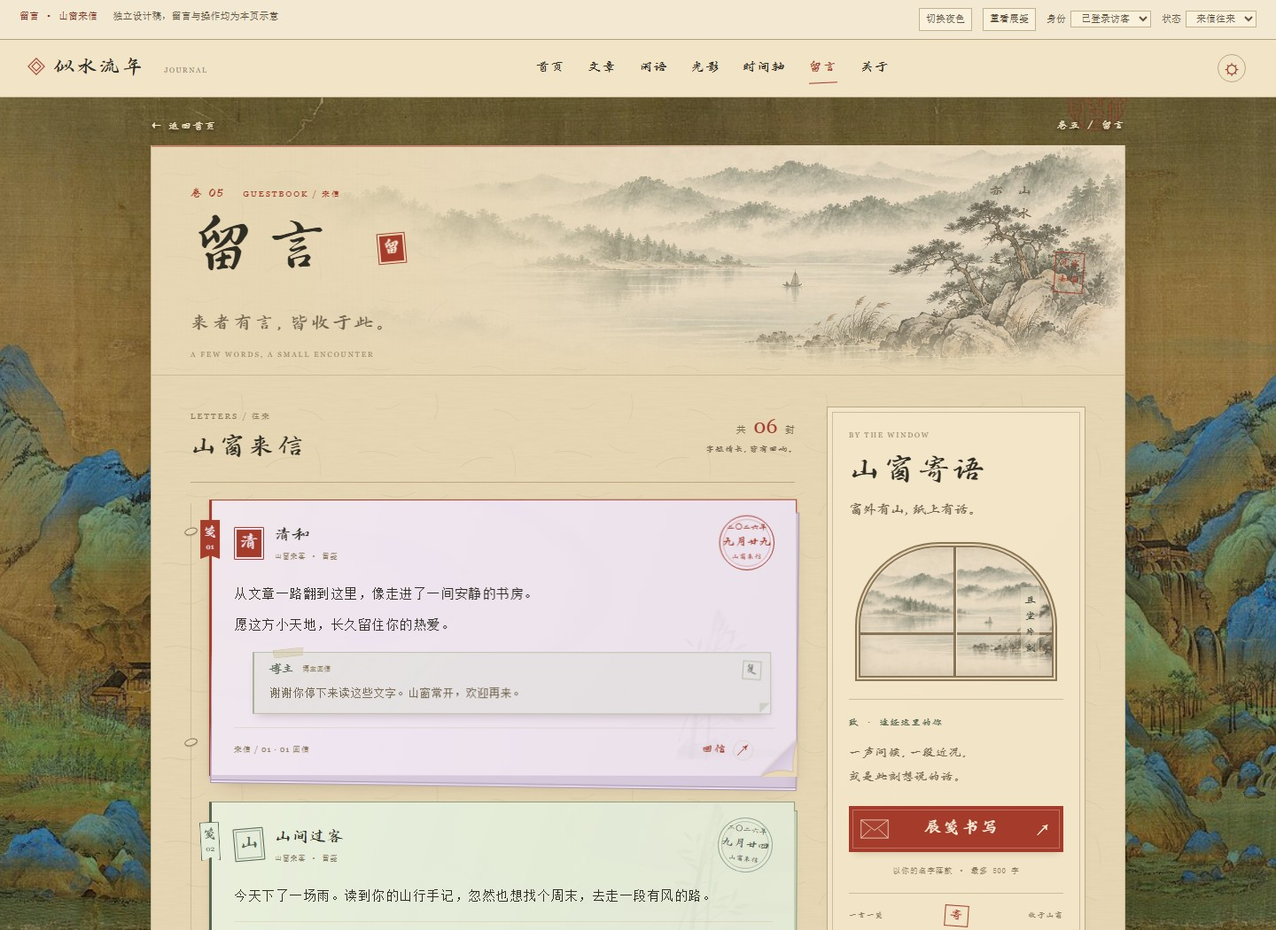
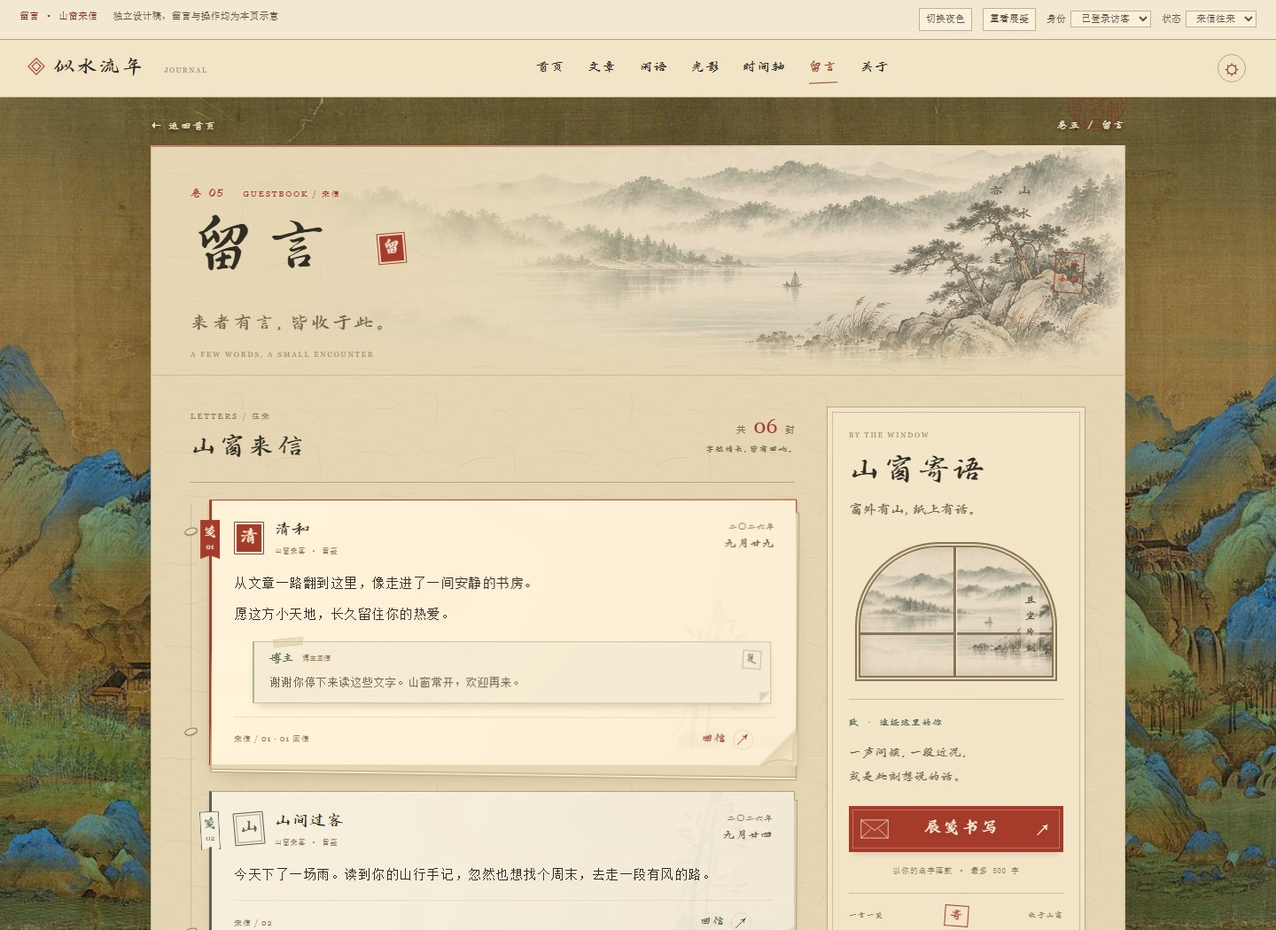
design(guestbook): harmonize paper tones and simplify writing layout

diff --git a/effect-preview/guestbook-window-letters-v2.css b/effect-preview/guestbook-window-letters-v2.css
@@ -116,17 +116,6 @@ html.motion-ready .hero-landscape{animation:landscape-reveal 1.5s var(--ease) bo
   display:block;border:none;margin:5px 0 0;padding:0;
   font:8px var(--song);letter-spacing:.1em;color:var(--faint);
 }
-.crafted-letter .letter-postmark {
-  display:flex;flex-direction:column;justify-content:center;align-items:center;
-  flex:none;gap:1px;width:52px;height:52px;padding:4px;
-  border:1px solid color-mix(in srgb,var(--letter-accent) 50%,transparent);
-  border-radius:50%;color:var(--letter-accent);
-  box-shadow:inset 0 0 0 3px var(--letter-paper),inset 0 0 0 4px color-mix(in srgb,var(--letter-accent) 30%,transparent);
-  transform:rotate(7deg);transition:transform .5s,color .4s,border-color .4s;
-}
-.letter-postmark span {font:7px/1 Georgia,serif;letter-spacing:.2em;}
-.letter-postmark b {font:14px/1.25 Georgia,serif;font-weight:400;letter-spacing:0;}
-.letter-postmark i {font:8px/1.4 var(--brush);letter-spacing:.08em;font-style:normal;}
 .crafted-letter .letter-body {margin:12px 0 13px;line-height:2.03;}
 .crafted-letter .letter-body p+p {margin-top:5px;}
 .crafted-letter .letter-foot {border-top-color:var(--letter-rule);padding:8px 24px 0 0;min-height:36px;}
@@ -170,7 +159,6 @@ html.motion-ready .hero-landscape{animation:landscape-reveal 1.5s var(--ease) bo
 .crafted-letter:hover .letter-fold,.crafted-letter:focus-within .letter-fold {width:41px;height:41px;}
 .crafted-letter:hover .letter-folio,.crafted-letter:focus-within .letter-folio {background:var(--letter-accent);color:var(--letter-paper);transform:rotate(0);}
 .crafted-letter:hover .avatar,.crafted-letter:focus-within .avatar {transform:rotate(0);background:var(--letter-accent);color:var(--letter-paper);}
-.crafted-letter:hover .letter-postmark,.crafted-letter:focus-within .letter-postmark {transform:rotate(0);border-color:var(--letter-accent);}
 .crafted-letter:hover .reply,.crafted-letter:focus-within .reply {transform:rotate(0);box-shadow:0 7px 10px -6px var(--shadow);}
 @keyframes received-ink {0%{opacity:.5;transform:scale(1)}100%{opacity:0;transform:scale(1.5)}}
 @keyframes seal-on-letter {0%{opacity:0;transform:scale(1.3) rotate(-9deg)}70%{opacity:1;transform:scale(.96) rotate(-5deg)}100%{transform:rotate(-5deg)}}
@@ -191,10 +179,6 @@ html.motion-ready .hero-landscape{animation:landscape-reveal 1.5s var(--ease) bo
   .crafted-letter .avatar {width:29px;height:32px;font-size:19px;}
   .crafted-letter .author {font-size:16px;}
   .crafted-letter .author-tag {font-size:7px;letter-spacing:.03em;}
-  .crafted-letter .letter-postmark {width:46px;height:46px;}
-  .letter-postmark b {font-size:12px;}
-  .letter-postmark span {font-size:6px;}
-  .letter-postmark i {font-size:7px;}
   .crafted-letter .letter-body {margin:12px 0;}
   .crafted-letter .reply {margin:13px 0 13px 8px;padding:10px 12px;}
   .crafted-letter .reply-name {font-size:13px;gap:7px;}
@@ -210,107 +194,73 @@ html.motion-ready .hero-landscape{animation:landscape-reveal 1.5s var(--ease) bo
   .crafted-letter .avatar::after {display:none;}
 }
 
-/* 淡彩笺纸：随机选择纸色，同一封信在翻页和切换日夜时保留配色。 */
-.crafted-letter[data-paper=apricot] {--letter-paper:#fff0d5;--letter-back:#e9d0a6;--letter-border:#b59868;}
-.crafted-letter[data-paper=moss] {--letter-paper:#e5edda;--letter-back:#cbd7bd;--letter-border:#91a080;}
-.crafted-letter[data-paper=moon] {--letter-paper:#e5eef0;--letter-back:#c9d9dc;--letter-border:#8da3aa;}
-.crafted-letter[data-paper=lotus] {--letter-paper:#eee5f0;--letter-back:#d7c9dc;--letter-border:#a491ad;}
-.crafted-letter[data-paper=rose] {--letter-paper:#f5e2db;--letter-back:#dec3b8;--letter-border:#b58f7f;}
-.crafted-letter[data-paper=oat] {--letter-paper:#f5ecd9;--letter-back:#ded0b1;--letter-border:#b2a07a;}
-.crafted-letter[data-paper] {--fold-shadow:color-mix(in srgb,var(--letter-back) 72%,#6e5d43);--fold-paper:var(--letter-back);--fold-light:var(--letter-paper);--reply-paper:color-mix(in srgb,var(--letter-paper) 76%,#c6d2b5);}
-:root[data-theme=dark] .crafted-letter[data-paper=apricot] {--letter-paper:#574632;--letter-back:#3c3022;--letter-border:#a28861;}
-:root[data-theme=dark] .crafted-letter[data-paper=moss] {--letter-paper:#414b36;--letter-back:#2c3424;--letter-border:#81936e;}
-:root[data-theme=dark] .crafted-letter[data-paper=moon] {--letter-paper:#3c4b50;--letter-back:#29363a;--letter-border:#78969e;}
-:root[data-theme=dark] .crafted-letter[data-paper=lotus] {--letter-paper:#4d4051;--letter-back:#352b39;--letter-border:#97819f;}
-:root[data-theme=dark] .crafted-letter[data-paper=rose] {--letter-paper:#554039;--letter-back:#392b25;--letter-border:#a78778;}
+/* 与山水底纸同调的六种纸色，随机分配并随来信保留。 */
+.crafted-letter[data-paper=rice] {--letter-paper:#fff2d9;--letter-back:#e7d6b3;--letter-border:#b49b73;}
+.crafted-letter[data-paper=tea] {--letter-paper:#f3e6cd;--letter-back:#dcc9a7;--letter-border:#ae9570;}
+.crafted-letter[data-paper=linen] {--letter-paper:#f5eedb;--letter-back:#e0d5bb;--letter-border:#b2a17f;}
+.crafted-letter[data-paper=sage] {--letter-paper:#ecebd5;--letter-back:#d1d0b3;--letter-border:#9fa080;}
+.crafted-letter[data-paper=sand] {--letter-paper:#f8e9d1;--letter-back:#dfcdb0;--letter-border:#b39a7b;}
+.crafted-letter[data-paper=oat] {--letter-paper:#f4ecd8;--letter-back:#ded0b1;--letter-border:#b2a07a;}
+.crafted-letter[data-paper] {--fold-shadow:color-mix(in srgb,var(--letter-back) 72%,#6e5d43);--fold-paper:var(--letter-back);--fold-light:var(--letter-paper);--reply-paper:color-mix(in srgb,var(--letter-paper) 80%,#cbd0b5);}
+:root[data-theme=dark] .crafted-letter[data-paper=rice] {--letter-paper:#584a35;--letter-back:#3c3022;--letter-border:#a28861;}
+:root[data-theme=dark] .crafted-letter[data-paper=tea] {--letter-paper:#544531;--letter-back:#372e22;--letter-border:#988365;}
+:root[data-theme=dark] .crafted-letter[data-paper=linen] {--letter-paper:#554d3b;--letter-back:#373326;--letter-border:#9d9173;}
+:root[data-theme=dark] .crafted-letter[data-paper=sage] {--letter-paper:#4b4c37;--letter-back:#303223;--letter-border:#919573;}
+:root[data-theme=dark] .crafted-letter[data-paper=sand] {--letter-paper:#594936;--letter-back:#3c3024;--letter-border:#a58b6c;}
 :root[data-theme=dark] .crafted-letter[data-paper=oat] {--letter-paper:#504833;--letter-back:#362f22;--letter-border:#9c916f;}
 :root[data-theme=dark] .crafted-letter[data-paper] {--reply-paper:color-mix(in srgb,var(--letter-paper) 80%,#33472d);}
-.crafted-letter .letter-postmark {width:62px;height:62px;gap:3px;}
-.letter-postmark span {font:9px/1.2 var(--brush);letter-spacing:.02em;}
-.letter-postmark b {font:14px/1.2 var(--brush);letter-spacing:0;}
-.letter-postmark i {font:8px/1.2 var(--brush);}
+/* 中文日期直接落款，不加框线或印戳。 */
+.crafted-letter .letter-date {display:flex;flex-direction:column;align-items:flex-end;gap:5px;padding:0;flex:none;color:var(--soft);}
+.letter-date span {font:10px/1.2 var(--brush);letter-spacing:.05em;color:var(--faint);}
+.letter-date b {font:14px/1.2 var(--brush);letter-spacing:.03em;font-weight:400;}
 
-/* 山窗书笺：题签、收信处、正文、敬上落款、寄封。 */
+/* 书写页只保留题头、正文、落款与寄封，装饰沿纸边收束。 */
 body:has(#composer[open]) {overflow:hidden;}
-#composer {
-  width:min(780px,calc(100% - 28px));
-  background:linear-gradient(120deg,#fff7de29,transparent 40%),var(--bright) url('../public/bg/guestbook-paper-fibers.svg');
-  box-shadow:0 4px 0 -2px var(--muted-paper),0 4px 0 -1px var(--line),0 30px 90px #100b0785;
-}
+#composer {width:min(740px,calc(100% - 28px));background:var(--bright) url('../public/bg/guestbook-paper-fibers.svg');box-shadow:0 4px 0 -2px var(--muted-paper),0 4px 0 -1px var(--line),0 30px 90px #100b0785;}
 #composer::after {position:absolute;inset:7px;content:'';border:1px solid var(--fine);opacity:.5;pointer-events:none;}
-#composer-form {padding:28px 44px 29px 67px;isolation:isolate;}
-#composer-form::before {height:210px;opacity:.085;z-index:-1;mask-image:linear-gradient(90deg,transparent 25%,#000),linear-gradient(0deg,#000,transparent);mask-composite:intersect;}
-.composer-spine {position:absolute;left:17px;top:142px;writing-mode:vertical-rl;font:15px/1 var(--brush);letter-spacing:.35em;color:var(--soft);border-left:1px solid var(--fine);padding:0 9px 0 0;}
-.composer-spine i {font:16px/1 var(--brush);letter-spacing:0;border:1px solid var(--seal);color:var(--seal);padding:5px 3px;margin-top:25px;transform:rotate(-4deg);}
-#composer .dialog-head {padding-bottom:16px;}
-#composer .dialog-head .eyebrow {font:12px var(--brush);letter-spacing:.13em;color:var(--seal);}
-.dialog-head .eyebrow small {font:7px Georgia,serif;letter-spacing:.17em;color:var(--faint);margin-left:14px;}
-#composer .dialog-head button {padding:7px 0 7px 14px;}
-#composer .dialog-title {align-items:center;margin:23px 0 22px;}
-.composer-kicker {font:12px var(--brush);letter-spacing:.1em;color:var(--faint);}
-#composer .dialog-title h2 {font-size:47px;letter-spacing:.1em;margin-top:9px;}
-#composer .dialog-title p {font:17px/1.8 var(--brush);letter-spacing:.1em;border-left:1px solid var(--fine);padding-left:19px;color:var(--soft);}
-.composer-to {display:flex;justify-content:space-between;align-items:center;gap:15px;padding:10px 0 12px;border-top:1px solid var(--fine);}
-.composer-to span:first-child {font:16px var(--brush);letter-spacing:.09em;color:var(--pine);}
-#composer-date {font:12px var(--brush);letter-spacing:.08em;color:var(--faint);}
-#composer .manuscript {
-  border-top:1px solid var(--line);border-bottom:1px solid var(--line);
-  padding:10px 0 12px;margin-bottom:16px;
-  background:linear-gradient(90deg,#fff8e321,transparent 65%);
-  max-height:38dvh;scrollbar-width:thin;scrollbar-color:var(--line) transparent;
-}
-#composer .line-numbers {font:10px/36px var(--brush);width:29px;color:var(--faint);border-right-color:var(--fine);}
-#message {
-  min-height:252px;padding-left:16px;
-  font:18px/36px 'KaiTi','STKaiti',var(--song);
-  background:repeating-linear-gradient(0deg,var(--letter-rule) 0 1px,transparent 1px 36px);
-  background-size:100% 36px;caret-color:var(--seal);
-}
+#composer-form {padding:32px 46px 30px;}
+#composer-form::before {content:none;}
+#composer .dialog-head {align-items:flex-start;padding-bottom:21px;}
+#composer .dialog-head .eyebrow {font:11px var(--brush);letter-spacing:.13em;color:var(--seal);}
+#composer-title {font:43px/1.25 var(--brush);font-weight:400;letter-spacing:.1em;margin:12px 0 0;}
+#composer .dialog-head button {margin-top:2px;padding:7px 0 7px 14px;}
+.composer-to {display:flex;justify-content:space-between;align-items:center;gap:15px;padding:18px 0;}
+#composer-description {font:14px/1.6 var(--brush);letter-spacing:.04em;color:var(--soft);margin:0;}
+#composer-date {font:11px var(--brush);letter-spacing:.04em;color:var(--faint);white-space:nowrap;}
+#composer .manuscript {border-top:1px solid var(--line);border-bottom:1px solid var(--line);padding:8px 0 10px;margin-bottom:17px;max-height:40dvh;scrollbar-width:thin;scrollbar-color:var(--line) transparent;}
+#message {min-height:252px;padding:0 7px;font:18px/36px 'KaiTi','STKaiti',var(--song);background:repeating-linear-gradient(0deg,var(--letter-rule) 0 1px,transparent 1px 36px);background-size:100% 36px;caret-color:var(--seal);}
 #message::placeholder {font:18px/36px var(--brush);color:var(--faint);opacity:.7;}
 #message:focus-visible {box-shadow:inset 1px 0 0 var(--seal);}
-#composer .signature {align-items:flex-start;color:var(--faint);font-size:10px;}
+#composer .signature {align-items:baseline;color:var(--faint);font-size:10px;}
 .signature>span:first-child {display:flex;align-items:baseline;gap:9px;}
-.signature b {font:21px var(--brush);margin-left:0;}
+.signature b {font:20px var(--brush);margin-left:0;}
 .signature i {font:13px var(--brush);font-style:normal;color:var(--soft);}
-#composer .dialog-foot {padding-top:19px;margin-top:21px;gap:13px;}
-#composer .mini-seal {position:relative;padding:5px 6px;font:24px/1 var(--brush);box-shadow:inset 0 0 0 2px var(--bright),inset 0 0 0 3px var(--seal);}
+#composer .dialog-foot {border-top:0;padding-top:0;margin-top:22px;gap:16px;}
 #composer .dialog-foot small {font-size:9px;}
-#composer .dialog-foot button {
-  display:flex;align-items:center;justify-content:center;gap:18px;min-height:51px;min-width:181px;
-  padding:10px 20px;font:21px var(--brush);box-shadow:inset 0 0 0 3px var(--seal),inset 0 0 0 4px #fff3cf55;
-  transition:transform .4s var(--ease),box-shadow .4s;
-}
-#send-button svg {width:29px;height:21px;fill:none;stroke:currentColor;stroke-width:1;transition:transform .5s var(--ease);}
+#composer .dialog-foot button {display:flex;align-items:center;justify-content:center;gap:18px;min-height:49px;min-width:176px;padding:10px 20px;font:20px var(--brush);box-shadow:inset 0 0 0 3px var(--seal),inset 0 0 0 4px #fff3cf55;transition:transform .4s var(--ease),box-shadow .4s;}
+#send-button svg {width:27px;height:20px;fill:none;stroke:currentColor;stroke-width:1;transition:transform .5s var(--ease);}
 #send-button:hover:not(:disabled) {transform:translateY(-2px);box-shadow:inset 0 0 0 3px var(--seal),inset 0 0 0 4px #fff3cf55,0 7px 10px -7px var(--shadow);}
 #send-button:hover:not(:disabled) svg {transform:translate(3px,-2px) rotate(-5deg);}
-#composer[aria-busy=true] .mini-seal {animation:seal-on-letter .55s var(--ease) both;}
 #composer #form-error {background:var(--muted-paper);border-left:2px solid var(--seal);padding:9px 12px;font-size:11px;margin-top:13px;}
 @media(max-width:480px) {
-  .crafted-letter .letter-postmark {width:54px;height:54px;gap:2px;}
-  .letter-postmark span {font-size:8px;}
-  .letter-postmark b {font-size:12px;}
-  .letter-postmark i {font-size:7px;}
+  .letter-date span {font-size:8px;letter-spacing:0;}
+  .letter-date b {font-size:12px;letter-spacing:0;}
+  .crafted-letter .letter-date {gap:4px;}
   #composer {width:calc(100% - 16px);max-height:calc(100dvh - 20px);}
-  #composer-form {padding:22px 23px 23px 27px;}
-  .composer-spine {display:none;}
-  #composer .dialog-head .eyebrow {font-size:11px;letter-spacing:.07em;}
-  .dialog-head .eyebrow small {display:none;}
-  #composer .dialog-title {display:flex;margin:19px 0 18px;gap:12px;}
-  .composer-kicker {font-size:10px;}
-  #composer .dialog-title h2 {font-size:35px;letter-spacing:.08em;}
-  #composer .dialog-title p {font-size:12px;line-height:1.7;padding-left:10px;flex:none;}
-  .composer-to {gap:7px;align-items:center;padding:10px 0;}
-  .composer-to span:first-child {font-size:13px;letter-spacing:.03em;}
-  #composer-date {font-size:9px;letter-spacing:.02em;}
-  #composer .manuscript {max-height:35dvh;padding-top:7px;margin-bottom:14px;}
-  #composer .line-numbers {width:24px;}
-  #message {font-size:17px;padding-left:11px;}
+  #composer-form {padding:25px 24px 24px;}
+  #composer .dialog-head {padding-bottom:17px;}
+  #composer .dialog-head .eyebrow {font-size:10px;}
+  #composer-title {font-size:34px;margin-top:9px;}
+  .composer-to {align-items:flex-start;flex-direction:column;gap:7px;padding:14px 0;}
+  #composer-description {font-size:12px;}
+  #composer-date {font-size:10px;}
+  #composer .manuscript {max-height:35dvh;margin-bottom:14px;}
+  #message {font-size:17px;}
   #message::placeholder {font-size:16px;}
   .signature b {font-size:18px;}
   .signature i {font-size:11px;}
   .signature>span:first-child {gap:5px;}
-  #composer .dialog-foot {margin-top:17px;padding-top:15px;gap:12px;}
-  #composer .dialog-foot button {width:100%;margin:2px 0 0;font-size:20px;min-height:48px;}
-  #composer .mini-seal {font-size:22px;}
+  #composer .dialog-foot {margin-top:19px;gap:10px;}
+  #composer .dialog-foot button {width:100%;margin:2px 0 0;font-size:20px;min-height:47px;}
 }
 @media(prefers-reduced-motion:reduce) {#send-button:hover:not(:disabled),#send-button:hover:not(:disabled) svg {transform:none;}}

diff --git a/effect-preview/guestbook-window-letters-v2.js b/effect-preview/guestbook-window-letters-v2.js
@@ -10,7 +10,7 @@
     {id:6,name:'南风',mark:'风',date:'2026.08.21',text:'不赶路的时候，看看山，写写字，也很好。',replies:[]}
   ];
   const data = structuredClone(original);
-  const paperNames=['apricot','moss','moon','lotus','rose','oat'];
+  const paperNames=['rice','tea','linen','sage','sand','oat'];
   let paperBag=[];
   function nextPaper() {
     if(!paperBag.length){paperBag=[...paperNames];for(let i=paperBag.length-1;i>0;i--){const j=Math.floor(Math.random()*(i+1));[paperBag[i],paperBag[j]]=[paperBag[j],paperBag[i]];}}
@@ -43,7 +43,7 @@
       stateBox.innerHTML=`<span class="state-symbol" aria-hidden="true">${symbol}</span><h3>${title}</h3><p>${copy}</p>${state==='error'?'<button type="button" id="retry-list">重新收信</button>':''}`;
       stateBox.toggleAttribute('data-loading',state==='loading');
     } else {
-      list.innerHTML=data.slice((page-1)*3,page*3).map((item,index)=>{const date=chineseDate(item.date);return `<article class="letter crafted-letter${item.replies.length?' has-reply':''}" data-paper="${item.paper}" data-id="${item.id}" aria-label="${escape(item.name)}的来信">${letterCraft(item,index)}<header class="letter-head"><span class="avatar" aria-hidden="true">${escape(item.mark)}</span><span class="author">${escape(item.name)}<small class="author-tag">山窗来客 · 留笺</small></span><time class="letter-postmark" datetime="${item.date.replaceAll('.','-')}" aria-label="${date.full}"><span>${date.year}</span><b>${date.day}</b><i aria-hidden="true">山窗来信</i></time></header><div class="letter-body">${bodyText(item.text)}</div><div class="replies">${item.replies.map(replyHTML).join('')}</div><footer class="letter-foot"><span>来信 / ${pad((page-1)*3+index+1)}${item.replies.length?` · ${pad(item.replies.length)} 回信`:''}</span><div class="letter-actions">${!guest?`<button class="text-action reply-toggle" type="button" aria-expanded="false" aria-controls="reply-${item.id}"><span>回信</span><b aria-hidden="true">↗</b></button>`:''}${owner?'<button class="text-action delete-button" type="button">收起</button>':''}</div></footer><form class="reply-input" id="reply-${item.id}" hidden><label class="sr-only" for="reply-text-${item.id}">回复${escape(item.name)}</label><textarea id="reply-text-${item.id}" maxlength="500" placeholder="写一封简短的回信……" required></textarea><div><small>示意回信 · 最多500字</small><button type="submit">寄出回信</button></div></form></article>`;}).join('');
+      list.innerHTML=data.slice((page-1)*3,page*3).map((item,index)=>{const date=chineseDate(item.date);return `<article class="letter crafted-letter${item.replies.length?' has-reply':''}" data-paper="${item.paper}" data-id="${item.id}" aria-label="${escape(item.name)}的来信">${letterCraft(item,index)}<header class="letter-head"><span class="avatar" aria-hidden="true">${escape(item.mark)}</span><span class="author">${escape(item.name)}<small class="author-tag">山窗来客 · 留笺</small></span><time class="letter-date" datetime="${item.date.replaceAll('.','-')}" aria-label="${date.full}"><span>${date.year}</span><b>${date.day}</b></time></header><div class="letter-body">${bodyText(item.text)}</div><div class="replies">${item.replies.map(replyHTML).join('')}</div><footer class="letter-foot"><span>来信 / ${pad((page-1)*3+index+1)}${item.replies.length?` · ${pad(item.replies.length)} 回信`:''}</span><div class="letter-actions">${!guest?`<button class="text-action reply-toggle" type="button" aria-expanded="false" aria-controls="reply-${item.id}"><span>回信</span><b aria-hidden="true">↗</b></button>`:''}${owner?'<button class="text-action delete-button" type="button">收起</button>':''}</div></footer><form class="reply-input" id="reply-${item.id}" hidden><label class="sr-only" for="reply-text-${item.id}">回复${escape(item.name)}</label><textarea id="reply-text-${item.id}" maxlength="500" placeholder="写一封简短的回信……" required></textarea><div><small>示意回信 · 最多500字</small><button type="submit">寄出回信</button></div></form></article>`;}).join('');
     }
     document.querySelector('.pagination').hidden=list.hidden||pages<2;
     $('page-caption').textContent=`第 ${pad(page)} / ${pad(pages)} 页`;
@@ -60,7 +60,7 @@
     document.querySelectorAll('.letter').forEach(letter=>observer.observe(letter));
   }
   function openComposer(trigger) {returnFocus=trigger;$('form-error').hidden=true;$('composer').showModal();$('message').focus();resizeMessage();}
-  function resizeMessage(followTail=false) {const message=$('message'),line=parseFloat(getComputedStyle(message).lineHeight)||36;message.style.height='auto';message.style.height=Math.max(line*7,message.scrollHeight)+'px';const lines=Math.ceil(parseInt(message.style.height)/line);document.querySelector('.line-numbers').innerHTML=Array.from({length:lines},(_,i)=>chineseNumber(i+1)).join('<br>');$('char-count').textContent=`${message.value.length} / 500`;$('send-button').disabled=busy||!message.value.trim();if(followTail&&message.selectionStart===message.value.length){const paper=document.querySelector('.manuscript');paper.scrollTop=paper.scrollHeight;}}
+  function resizeMessage(followTail=false) {const message=$('message'),line=parseFloat(getComputedStyle(message).lineHeight)||36;message.style.height='auto';message.style.height=Math.max(line*7,message.scrollHeight)+'px';$('char-count').textContent=`${message.value.length} / 500`;$('send-button').disabled=busy||!message.value.trim();if(followTail&&message.selectionStart===message.value.length){const paper=document.querySelector('.manuscript');paper.scrollTop=paper.scrollHeight;}}
   $('write-button').addEventListener('click',event=>openComposer(event.currentTarget));
   $('close-composer').addEventListener('click',()=>$('composer').close());
   $('composer').addEventListener('cancel',event=>{if(busy)event.preventDefault()});

diff --git a/effect-preview/guestbook-window-letters-v2.html b/effect-preview/guestbook-window-letters-v2.html
@@ -44,13 +44,11 @@
 <footer class="site-footer">山水有尽 · 来信无涯<p>本页为待确认设计稿。正式留言将沿用现有登录、回复、分页与权限。</p></footer>
 <dialog id="composer" aria-labelledby="composer-title" aria-describedby="composer-description">
   <form id="composer-form">
-    <span class="composer-spine" aria-hidden="true">见字如面 <i>笺</i></span>
-    <header class="dialog-head"><span class="eyebrow">卷五 / 山窗书笺 <small>A LETTER BY THE WINDOW</small></span><button id="close-composer" type="button" aria-label="收笺，关闭书写面板">收笺 ×</button></header>
-    <div class="dialog-title"><div><span class="composer-kicker">把此刻，写给山窗。</span><h2 id="composer-title">山窗寄语</h2></div><p id="composer-description">窗外有山，<br>纸上有话。</p></div>
-    <div class="composer-to"><span>致 · 此间山窗</span><span id="composer-date"></span></div>
-    <div class="manuscript"><div class="line-numbers" aria-hidden="true">一<br>二<br>三<br>四<br>五<br>六<br>七</div><label class="sr-only" for="message">留言内容</label><textarea id="message" placeholder="见字如面，&#10;写下此刻想说的话……" maxlength="500" required></textarea></div>
+    <header class="dialog-head"><div><span class="eyebrow">卷五 / 山窗书笺</span><h2 id="composer-title">山窗寄语</h2></div><button id="close-composer" type="button" aria-label="收笺，关闭书写面板">收笺 ×</button></header>
+    <div class="composer-to"><p id="composer-description">见字如面，写下此刻想说的话。</p><span id="composer-date"></span></div>
+    <div class="manuscript"><label class="sr-only" for="message">留言内容</label><textarea id="message" placeholder="写下此刻想说的话……" maxlength="500" required></textarea></div>
     <div class="signature"><span>落款 · <b id="signature-name">山窗访客</b><i>敬上</i></span><span id="char-count">0 / 500</span></div>
-    <p id="form-error" role="alert" hidden></p><footer class="dialog-foot"><span class="mini-seal" aria-hidden="true">寄</span><small>示意寄送，仅保留在本页</small><button id="send-button" type="submit" disabled><span id="send-label">寄出留言</span><svg viewBox="0 0 38 26" aria-hidden="true"><path d="M1 1H37V25H1Z M1 1L19 15L37 1 M1 25L14 13 M37 25L24 13"/></svg></button></footer>
+    <p id="form-error" role="alert" hidden></p><footer class="dialog-foot"><small>示意寄送，仅保留在本页</small><button id="send-button" type="submit" disabled><span id="send-label">寄出留言</span><svg viewBox="0 0 38 26" aria-hidden="true"><path d="M1 1H37V25H1Z M1 1L19 15L37 1 M1 25L14 13 M37 25L24 13"/></svg></button></footer>
   </form>
 </dialog>
 <dialog id="delete-dialog" aria-labelledby="delete-title"><form method="dialog"><p class="eyebrow">收笺 / 移除演示留言</p><h2 id="delete-title">收起这封来信？</h2><p>仅移除本页示例，重新加载可恢复。</p><div><button value="cancel">保留</button><button id="confirm-delete" value="confirm">收起留言</button></div></form></dialog>

diff --git a/effect-preview/guestbook-window-letters-v2.md b/effect-preview/guestbook-window-letters-v2.md
@@ -10,12 +10,12 @@
 | --- | --- |
 | 山水题头 | 继续使用站内水墨山景与“来者有言，皆收于此”；保留卷五标识、书法标题与朱印，加右侧题跋和克制的英文落款 |
 | 纸面 | 桌面最大 1100px，左侧阅读区与右侧 292px 书写引导区；纸面、信笺与页边采用三个明度层次，内容结束即收束页底 |
-| 来信 | 左侧装订线与穿线环串起随机淡彩信笺；侧签、个人方印、中文日期圆戳、淡竹纹与右下曲面折角构成装帧，正文自然撑高 |
+| 来信 | 左侧装订线与穿线环串起随机暖色信笺；侧签、个人方印、无框中文日期、淡竹纹与右下曲面折角构成装帧，正文自然撑高 |
 | 回信 | 松色小纸条附在原笺内，用纤维胶贴、复字小印和轻微倾角区分；有回信的原笺用朱色侧线与印记，其余沿用松色 |
 | 山窗 | 保留“山窗寄语 / 窗外有山，纸上有话”；拱形窗框、双线木边、窗棂与原站水墨远山组成阅读停顿处 |
 | 书写入口 | 朱色双细框按钮与可翻起的信封线稿；“展笺书写”打开信纸弹层 |
 | 分页 | 置于来信区结尾，以小型朱色页签表达当前页，翻页后焦点回到来信标题 |
-| 书写弹层 | 双层纸边、纵向题签、收信处与中文日期；正文采用 36px 格线和中文行次，底部为“敬上”落款、寄印与封信按钮，最多 500 字 |
+| 书写弹层 | 纸边细框与统一左边线；题头、简短说明与中文日期、36px 格线正文、敬上落款和寄出按钮依次排列，最多 500 字 |
 
 760px 以下变为单列，山窗与书写入口置于来信前；390/375/360px 下进一步缩小窗景、保持入口全宽，信笺仍按内容高度排版。夜色采用深褐底纸、较浅信笺、暖墨文字与淡朱色操作。
 
@@ -25,7 +25,7 @@
 | --- | --- |
 | 首次打开 / 重看展笺 | 山水横向显出（1.5s），标题轻入场，朱印随后落下；右侧山窗从中间打开 |
 | 来信首次进入视野 | 纸页向下展笺，正文延迟显出；完成后静止 |
-| 悬停或键盘聚焦来信 | 纸页抬升 4px、背纸微错位、方印与侧签显色；曲面折角由 25px 展至 41px，日期圆戳和附笺轻回正 |
+| 悬停或键盘聚焦来信 | 纸页抬升 4px、背纸微错位、方印与侧签显色；曲面折角由 25px 展至 41px，附笺轻回正；日期保持静止 |
 | 指针移动 / 移出 | 桌面纸面随指针轻微倾斜（最大约 0.75°），移出后复位；不改变排版高度，触屏不依赖此效果 |
 | 悬停书写入口 | 信封上盖翻起、入口轻抬，箭头提示寄送方向 |
 | 打开书写面板 | 信纸展笺并聚焦正文，背景虚化；关闭时回到入口 |
@@ -37,15 +37,15 @@
 
 来信保留同一设计骨架，通过真实的回信有无决定朱色/松色标识；回信是独立附笺，避免原留言与回复混成一整块。SVG 折角具有曲面路径、渐变与折痕，每封使用独立渐变 ID。书写弹层、双栏与题头保持既有构图。
 
-1440px 下三张示例纸页实测约 312 / 190 / 226px，高度随正文与回信变化；悬停不增加高度。装帧动画延续“展笺 → 显字 → 印记与附笺显出”的一次入场节奏。减少动态效果时停用倾斜、抬升和印记扩散。
+1440px 下三张示例纸页实测约 300 / 178 / 214px，高度随正文与回信变化；悬停不增加高度。装帧动画延续“展笺 → 显字 → 印记与附笺显出”的一次入场节奏。减少动态效果时停用倾斜、抬升和印记扩散。
 
 ## 随机纸色与中文落款
 
-使用蜜杏、豆青、月白、藕荷、浅绯、麦纸六组淡彩。每次打开页面先随机洗牌，依次为留言分配；一组六封内不重复。配色保存在每封示例信的数据上，因此翻页、回复、切换日夜和重播不会改变已分配的颜色，新留言得到下一张随机纸色。夜色使用对应的深色纸面，背纸、折角与回笺同步协调。
+使用米纸、淡茶、亚麻、灰青、浅砂、麦纸六组低饱和纸色，色相靠近原站的米色宣纸与山水灰青。米纸正面为 `#fff2d9`，灰青正面为 `#ecebd5`，其余在暖米色之间变化；夜色也收束到茶褐与灰橄榄色。每次打开页面先随机洗牌，依次为留言分配；一组六封内不重复。配色保存在每封示例信的数据上，因此翻页、回复、切换日夜和重播不会改变已分配的颜色，新留言得到下一张随机纸色。背纸、折角与回笺同步协调。
 
-日期仍使用原有公历日期，显示为“二〇二六年 / 九月廿九”这样的中文书法落款。辅助技术读到完整中文年月日，`datetime` 属性保留标准日期格式。无脚本静态来信也显示中文日期。
+日期仍使用原有公历日期，显示为“二〇二六年 / 九月廿九”这样的中文书法落款，右对齐分为两行。日期没有圆框、边线、投影或旋转；年份轻淡，月日略大。辅助技术读到完整中文年月日，`datetime` 属性保留标准日期格式。无脚本静态来信也显示中文日期。
 
-书写面板按“书笺题头 → 山窗寄语 → 收信处与日期 → 格线正文 → 敬上落款 → 寄封”排布。新增双层细框、纵向“见字如面”题签与轻淡山水底衬。正文、中文行次统一使用 36px 行高；连续在末尾输入时，书写区跟随到末行，编辑中间内容时保留滚动位置。弹层打开时锁住背景滚动，关闭后恢复；失败保留正文，寄送按钮的信封图形在重试后仍保留。
+书写面板按“题头 → 一句书写说明与日期 → 格线正文 → 敬上落款 → 寄出”排布。标题、正文、署名和说明沿同一左边线；关闭、字数与寄出沿右边线。移除纵向题签、额外寄印、英文小字、行号、重复称呼和底部山景，保留纸纹、细框和朱色信封按钮。正文使用 36px 行高；连续在末尾输入时，书写区跟随到末行，编辑中间内容时保留滚动位置。弹层打开时锁住背景滚动，关闭后恢复；失败保留正文，寄送按钮的信封图形在重试后仍保留。
 
 ## 演示范围
 
@@ -63,8 +63,8 @@
 - 未登录入口、博主演示收起与取消、空/加载/失败/重试、手机目录、减少动态效果通过。
 - 禁用 JavaScript 时仍显示三封静态来信与回信，隐藏不可用演示入口并提供正式页面链接。
 - 浏览器未捕获到页面脚本异常或资源失败。四张交付截图均在有限动画完成后保存。
-- 本轮复测通过：三个独立 SVG 折角、日期圆戳与前后纸面色差；指针倾斜和移出复位、折角展开、悬停高度不变、键盘反馈及减少动态效果均已检查。新增卡片悬停截图。
-- 随机纸色检查通过：六封示例配色唯一，翻页与日夜切换保持色系，刷新重新随机；中文日期正文与可访问名称均没有阿拉伯数字。书写行高一致，390×844 和 360×640 下寄出按钮可访问且没有横向溢出。
+- 本轮复测通过：三个独立 SVG 折角、无框日期与前后纸面色差；指针倾斜和移出复位、折角展开、悬停高度不变、键盘反馈及减少动态效果均已检查。更新卡片悬停截图。
+- 随机纸色检查通过：六封示例配色唯一且均处于暖米色范围，翻页与日夜切换保持色系，刷新重新随机；中文日期正文与可访问名称均没有阿拉伯数字，计算样式确认没有边框、阴影或旋转。书写页移除多余装饰，正文行高 36px，390×844 和 360×640 下寄出按钮可访问且没有横向溢出；末尾输入跟随与中段修改保留位置通过。
 - `npx tsc --noEmit`、`npx next build` 通过。`npx vitest run` 的 67 个文件、340 个断言通过，但有 5 个既有 `DailyQuote.tsx:105` 的 `echo.animate is not a function` 未处理异常，命令退出 1；不将全量测试标记为通过。
 
 ## 截图
